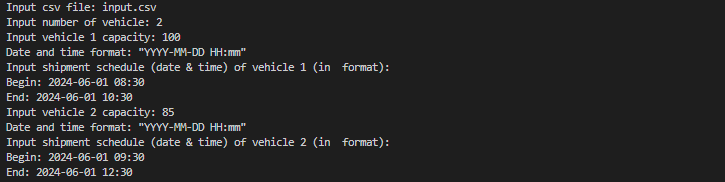
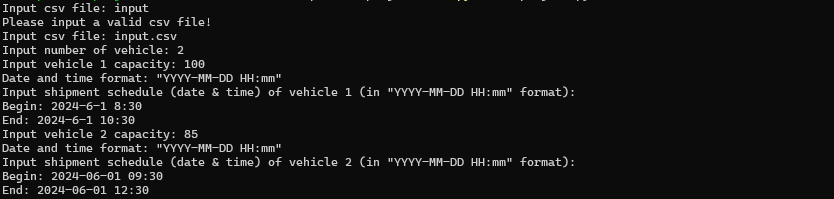
update readme.md, project.py, and add route_map

Changed region(s): [[0.0, 0.0, 0.6979, 0.989]]

diff --git a/route_map.html b/route_map.html
@@ -1,0 +1,208 @@
+<!DOCTYPE html>
+<html>
+<head>
+    
+    <meta http-equiv="content-type" content="text/html; charset=UTF-8" />
+    
+        <script>
+            L_NO_TOUCH = false;
+            L_DISABLE_3D = false;
+        </script>
+    
+    <style>html, body {width: 100%;height: 100%;margin: 0;padding: 0;}</style>
+    <style>#map {position:absolute;top:0;bottom:0;right:0;left:0;}</style>
+    <script src="https://cdn.jsdelivr.net/npm/leaflet@1.9.3/dist/leaflet.js"></script>
+    <script src="https://code.jquery.com/jquery-3.7.1.min.js"></script>
+    <script src="https://cdn.jsdelivr.net/npm/bootstrap@5.2.2/dist/js/bootstrap.bundle.min.js"></script>
+    <script src="https://cdnjs.cloudflare.com/ajax/libs/Leaflet.awesome-markers/2.0.2/leaflet.awesome-markers.js"></script>
+    <link rel="stylesheet" href="https://cdn.jsdelivr.net/npm/leaflet@1.9.3/dist/leaflet.css"/>
+    <link rel="stylesheet" href="https://cdn.jsdelivr.net/npm/bootstrap@5.2.2/dist/css/bootstrap.min.css"/>
+    <link rel="stylesheet" href="https://netdna.bootstrapcdn.com/bootstrap/3.0.0/css/bootstrap.min.css"/>
+    <link rel="stylesheet" href="https://cdn.jsdelivr.net/npm/@fortawesome/fontawesome-free@6.2.0/css/all.min.css"/>
+    <link rel="stylesheet" href="https://cdnjs.cloudflare.com/ajax/libs/Leaflet.awesome-markers/2.0.2/leaflet.awesome-markers.css"/>
+    <link rel="stylesheet" href="https://cdn.jsdelivr.net/gh/python-visualization/folium/folium/templates/leaflet.awesome.rotate.min.css"/>
+    
+            <meta name="viewport" content="width=device-width,
+                initial-scale=1.0, maximum-scale=1.0, user-scalable=no" />
+            <style>
+                #map_fca88e382974da6c19a247c7f1bebd39 {
+                    position: relative;
+                    width: 100.0%;
+                    height: 100.0%;
+                    left: 0.0%;
+                    top: 0.0%;
+                }
+                .leaflet-container { font-size: 1rem; }
+            </style>
+        
+</head>
+<body>
+    
+    
+            <div class="folium-map" id="map_fca88e382974da6c19a247c7f1bebd39" ></div>
+        
+</body>
+<script>
+    
+    
+            var map_fca88e382974da6c19a247c7f1bebd39 = L.map(
+                "map_fca88e382974da6c19a247c7f1bebd39",
+                {
+                    center: [0.5705953948161725, 123.05911896076756],
+                    crs: L.CRS.EPSG3857,
+                    zoom: 14,
+                    zoomControl: true,
+                    preferCanvas: false,
+                }
+            );
+
+            
+
+        
+    
+            var tile_layer_7d62fab1407437efd649049da0ea6a50 = L.tileLayer(
+                "https://tile.openstreetmap.org/{z}/{x}/{y}.png",
+                {"attribution": "\u0026copy; \u003ca href=\"https://www.openstreetmap.org/copyright\"\u003eOpenStreetMap\u003c/a\u003e contributors", "detectRetina": false, "maxNativeZoom": 19, "maxZoom": 19, "minZoom": 0, "noWrap": false, "opacity": 1, "subdomains": "abc", "tms": false}
+            );
+        
+    
+            tile_layer_7d62fab1407437efd649049da0ea6a50.addTo(map_fca88e382974da6c19a247c7f1bebd39);
+        
+    
+            var marker_14a4a0c672f0a43ab0fb64f08920b2cf = L.marker(
+                [0.5705953948161725, 123.05911896076756],
+                {}
+            ).addTo(map_fca88e382974da6c19a247c7f1bebd39);
+        
+    
+            var icon_9d92a796c4aba5bbac2b297c261f3be2 = L.AwesomeMarkers.icon(
+                {"extraClasses": "fa-rotate-0", "icon": "info-sign", "iconColor": "white", "markerColor": "red", "prefix": "glyphicon"}
+            );
+            marker_14a4a0c672f0a43ab0fb64f08920b2cf.setIcon(icon_9d92a796c4aba5bbac2b297c261f3be2);
+        
+    
+            marker_14a4a0c672f0a43ab0fb64f08920b2cf.bindTooltip(
+                `<div>
+                     start_point
+                 </div>`,
+                {"sticky": true}
+            );
+        
+    
+            var marker_2a56a130265e397de96f5e3626672c3c = L.marker(
+                [0.5461229144422185, 123.07928098393106],
+                {}
+            ).addTo(map_fca88e382974da6c19a247c7f1bebd39);
+        
+    
+            var icon_099619fc3c42db8cd354c52cd9b0feb8 = L.AwesomeMarkers.icon(
+                {"extraClasses": "fa-rotate-0", "icon": "info-sign", "iconColor": "white", "markerColor": "purple", "prefix": "glyphicon"}
+            );
+            marker_2a56a130265e397de96f5e3626672c3c.setIcon(icon_099619fc3c42db8cd354c52cd9b0feb8);
+        
+    
+            marker_2a56a130265e397de96f5e3626672c3c.bindTooltip(
+                `<div>
+                     end_point
+                 </div>`,
+                {"sticky": true}
+            );
+        
+    
+            var marker_ff8aae4be7693072d36586613ccc4476 = L.marker(
+                [0.5631471392390268, 123.05288470178134],
+                {}
+            ).addTo(map_fca88e382974da6c19a247c7f1bebd39);
+        
+    
+            marker_ff8aae4be7693072d36586613ccc4476.bindTooltip(
+                `<div>
+                     point01
+                 </div>`,
+                {"sticky": true}
+            );
+        
+    
+            var marker_b3ce35c527e4ded492cd7d2e8d0713e8 = L.marker(
+                [0.5593274803137437, 123.06239670199969],
+                {}
+            ).addTo(map_fca88e382974da6c19a247c7f1bebd39);
+        
+    
+            marker_b3ce35c527e4ded492cd7d2e8d0713e8.bindTooltip(
+                `<div>
+                     point02
+                 </div>`,
+                {"sticky": true}
+            );
+        
+    
+            var marker_f4825dda0e5605458cfdb56cff02c0f2 = L.marker(
+                [0.5421563811124765, 123.08181070778429],
+                {}
+            ).addTo(map_fca88e382974da6c19a247c7f1bebd39);
+        
+    
+            marker_f4825dda0e5605458cfdb56cff02c0f2.bindTooltip(
+                `<div>
+                     point03
+                 </div>`,
+                {"sticky": true}
+            );
+        
+    
+            var marker_6268e4311bdeebd48adcf6afefacaf61 = L.marker(
+                [0.5728066127800958, 123.0487623157014],
+                {}
+            ).addTo(map_fca88e382974da6c19a247c7f1bebd39);
+        
+    
+            marker_6268e4311bdeebd48adcf6afefacaf61.bindTooltip(
+                `<div>
+                     point04
+                 </div>`,
+                {"sticky": true}
+            );
+        
+    
+            var marker_399c0f19fdbd1b89f8b4c5f725b69cce = L.marker(
+                [0.57706528365983, 123.05837316586506],
+                {}
+            ).addTo(map_fca88e382974da6c19a247c7f1bebd39);
+        
+    
+            marker_399c0f19fdbd1b89f8b4c5f725b69cce.bindTooltip(
+                `<div>
+                     point05
+                 </div>`,
+                {"sticky": true}
+            );
+        
+    
+            var marker_917047c79d6d7e744560c65ab1136969 = L.marker(
+                [0.5336841606021262, 123.05336752598214],
+                {}
+            ).addTo(map_fca88e382974da6c19a247c7f1bebd39);
+        
+    
+            marker_917047c79d6d7e744560c65ab1136969.bindTooltip(
+                `<div>
+                     point06
+                 </div>`,
+                {"sticky": true}
+            );
+        
+    
+            var poly_line_37fbeb9c195b68b3531f95c494f1610d = L.polyline(
+                [[0.57061, 123.05908], [0.57038, 123.05902], [0.57051, 123.05864], [0.57072, 123.05816], [0.57116, 123.05725], [0.5712, 123.05717], [0.57122, 123.05714], [0.5715, 123.05659], [0.57155, 123.05651], [0.57174, 123.05609], [0.57181, 123.05595], [0.57185, 123.05588], [0.57207, 123.05541], [0.5721, 123.05536], [0.57224, 123.05508], [0.57331, 123.05299], [0.57358, 123.0525], [0.57352, 123.05248], [0.57248, 123.05218], [0.57216, 123.0521], [0.5717, 123.05196], [0.57202, 123.05106], [0.57209, 123.05084], [0.57223, 123.05048], [0.57241, 123.04995], [0.57259, 123.04943], [0.57265, 123.04924], [0.57277, 123.04893], [0.5728, 123.04883], [0.57282, 123.04877], [0.57293, 123.04845], [0.57321, 123.0476], [0.57337, 123.04719], [0.57347, 123.04684], [0.57276, 123.04691], [0.5723, 123.04696], [0.57195, 123.047], [0.5711, 123.04707], [0.5705, 123.04714], [0.57036, 123.04716], [0.57018, 123.04718], [0.56939, 123.04727], [0.56847, 123.04735], [0.56838, 123.04736], [0.56715, 123.04741], [0.56701, 123.04741], [0.56692, 123.04742], [0.56678, 123.04743], [0.56629, 123.04743], [0.56562, 123.04745], [0.56528, 123.04746], [0.56488, 123.04747], [0.56475, 123.04748], [0.5641, 123.04753], [0.56358, 123.04758], [0.56344, 123.04788], [0.56312, 123.04861], [0.56271, 123.04977], [0.56266, 123.05003], [0.56261, 123.05047], [0.56254, 123.05099], [0.56252, 123.05121], [0.56242, 123.05187], [0.56239, 123.05211], [0.56233, 123.05254], [0.56314, 123.05289], [0.56233, 123.05254], [0.56194, 123.05239], [0.56121, 123.05214], [0.5612, 123.05217], [0.56116, 123.05225], [0.56115, 123.05227], [0.56091, 123.05322], [0.56089, 123.05328], [0.56067, 123.05413], [0.56052, 123.05457], [0.56043, 123.05491], [0.56037, 123.05514], [0.56033, 123.05527], [0.56024, 123.05556], [0.5601, 123.05606], [0.56006, 123.0562], [0.55988, 123.0569], [0.55975, 123.05746], [0.55971, 123.05761], [0.55968, 123.05773], [0.55961, 123.05793], [0.55957, 123.05806], [0.55955, 123.05812], [0.55929, 123.05889], [0.55999, 123.05906], [0.55985, 123.05979], [0.55979, 123.06007], [0.55968, 123.06069], [0.55969, 123.06085], [0.55973, 123.06101], [0.55973, 123.06112], [0.55971, 123.06124], [0.55956, 123.06169], [0.55933, 123.0624], [0.55931, 123.06248], [0.55916, 123.06289], [0.55885, 123.06387], [0.55875, 123.06417], [0.55861, 123.06463], [0.55855, 123.06487], [0.55843, 123.0655], [0.5584, 123.0656], [0.55741, 123.0653], [0.55734, 123.06529], [0.55625, 123.06498], [0.5555, 123.06479], [0.55485, 123.06463], [0.55371, 123.06434], [0.55364, 123.06433], [0.55264, 123.06412], [0.55245, 123.06407], [0.5524, 123.06403], [0.55239, 123.06395], [0.5525, 123.06332], [0.55251, 123.06324], [0.55213, 123.06318], [0.55111, 123.063], [0.55074, 123.06294], [0.55052, 123.0629], [0.5501, 123.06283], [0.5496, 123.06274], [0.54952, 123.06273], [0.54929, 123.06269], [0.54713, 123.06234], [0.54658, 123.06223], [0.54643, 123.0622], [0.54594, 123.06212], [0.54539, 123.06201], [0.54533, 123.062], [0.54468, 123.0619], [0.54394, 123.06174], [0.54321, 123.06161], [0.54283, 123.06154], [0.54227, 123.06144], [0.54225, 123.06148], [0.54222, 123.0615], [0.54224, 123.06158], [0.54224, 123.06179], [0.54221, 123.06212], [0.54216, 123.0624], [0.54208, 123.06305], [0.54206, 123.06333], [0.54198, 123.06411], [0.54197, 123.06431], [0.54191, 123.06516], [0.54185, 123.06574], [0.54182, 123.0665], [0.54178, 123.06705], [0.54175, 123.06745], [0.54173, 123.0677], [0.54173, 123.06791], [0.54174, 123.068], [0.54187, 123.06826], [0.54207, 123.06863], [0.54234, 123.06911], [0.54237, 123.06923], [0.54236, 123.06927], [0.54228, 123.06939], [0.54208, 123.06962], [0.54171, 123.07005], [0.54123, 123.07065], [0.54098, 123.07094], [0.54074, 123.07123], [0.5407, 123.07128], [0.54061, 123.07141], [0.54051, 123.07155], [0.54086, 123.07189], [0.5409, 123.07196], [0.54089, 123.07201], [0.54064, 123.0725], [0.54046, 123.07278], [0.53993, 123.07327], [0.53984, 123.07335], [0.53953, 123.07362], [0.53975, 123.07407], [0.53982, 123.07423], [0.54026, 123.07513], [0.54045, 123.07563], [0.54051, 123.07582], [0.54096, 123.07605], [0.54107, 123.07612], [0.54157, 123.07644], [0.54307, 123.07746], [0.5434, 123.07767], [0.54373, 123.07788], [0.54483, 123.07864], [0.54506, 123.07878], [0.54567, 123.07917], [0.54603, 123.07939], [0.54604, 123.0794]],
+                {"bubblingMouseEvents": true, "color": "red", "dashArray": null, "dashOffset": null, "fill": false, "fillColor": "red", "fillOpacity": 0.2, "fillRule": "evenodd", "lineCap": "round", "lineJoin": "round", "noClip": false, "opacity": 1.0, "smoothFactor": 1.0, "stroke": true, "weight": 3}
+            ).addTo(map_fca88e382974da6c19a247c7f1bebd39);
+        
+    
+            var poly_line_785f555fcfa416b01e76b0a421678828 = L.polyline(
+                [[0.57061, 123.05908], [0.57038, 123.05902], [0.57051, 123.05864], [0.57072, 123.05816], [0.57116, 123.05725], [0.5712, 123.05717], [0.57122, 123.05714], [0.57168, 123.05736], [0.57223, 123.05759], [0.5725, 123.05772], [0.57261, 123.05776], [0.57303, 123.05796], [0.57322, 123.05804], [0.57339, 123.05813], [0.57395, 123.05839], [0.57442, 123.05862], [0.57477, 123.05884], [0.57511, 123.05904], [0.57519, 123.05909], [0.57573, 123.05938], [0.57582, 123.05944], [0.57628, 123.05971], [0.57663, 123.05904], [0.57679, 123.0588], [0.57701, 123.05851], [0.5771, 123.0584], [0.57701, 123.05851], [0.57679, 123.0588], [0.57663, 123.05904], [0.57628, 123.05971], [0.57582, 123.05944], [0.57573, 123.05938], [0.57519, 123.05909], [0.57511, 123.05904], [0.57477, 123.05884], [0.57442, 123.05862], [0.57395, 123.05839], [0.57339, 123.05813], [0.57322, 123.05804], [0.57303, 123.05796], [0.57261, 123.05776], [0.5725, 123.05772], [0.57223, 123.05759], [0.57168, 123.05736], [0.57122, 123.05714], [0.5712, 123.05717], [0.57116, 123.05725], [0.57072, 123.05816], [0.57051, 123.05864], [0.57038, 123.05902], [0.57022, 123.0596], [0.57009, 123.06003], [0.56994, 123.06057], [0.56988, 123.06076], [0.56981, 123.06104], [0.56964, 123.06166], [0.56955, 123.06196], [0.56948, 123.06224], [0.56939, 123.06259], [0.56915, 123.06334], [0.56898, 123.06392], [0.5689, 123.06416], [0.56885, 123.06435], [0.56872, 123.06478], [0.56841, 123.0656], [0.56818, 123.06616], [0.56798, 123.06663], [0.56777, 123.06713], [0.56758, 123.06757], [0.56718, 123.0685], [0.56716, 123.0686], [0.56711, 123.06873], [0.56706, 123.06878], [0.56701, 123.06881], [0.56689, 123.06884], [0.56671, 123.06884], [0.56645, 123.06882], [0.56607, 123.06876], [0.56557, 123.06862], [0.56508, 123.06844], [0.56456, 123.06822], [0.56433, 123.06812], [0.5639, 123.06793], [0.56372, 123.06784], [0.56355, 123.06771], [0.56313, 123.06725], [0.56293, 123.06704], [0.56274, 123.06691], [0.56257, 123.06684], [0.56234, 123.06678], [0.56183, 123.06662], [0.56, 123.06606], [0.55879, 123.0657], [0.5584, 123.0656], [0.55741, 123.0653], [0.55734, 123.06529], [0.55625, 123.06498], [0.5555, 123.06479], [0.55485, 123.06463], [0.55371, 123.06434], [0.55364, 123.06433], [0.55264, 123.06412], [0.55245, 123.06407], [0.5524, 123.06403], [0.55239, 123.06395], [0.5525, 123.06332], [0.55251, 123.06324], [0.55213, 123.06318], [0.55111, 123.063], [0.55074, 123.06294], [0.55052, 123.0629], [0.5501, 123.06283], [0.5496, 123.06274], [0.54952, 123.06273], [0.54929, 123.06269], [0.54713, 123.06234], [0.54658, 123.06223], [0.54643, 123.0622], [0.54594, 123.06212], [0.54539, 123.06201], [0.54533, 123.062], [0.54468, 123.0619], [0.54394, 123.06174], [0.54321, 123.06161], [0.54283, 123.06154], [0.54227, 123.06144], [0.54225, 123.06148], [0.54222, 123.0615], [0.54224, 123.06158], [0.54224, 123.06179], [0.54221, 123.06212], [0.54216, 123.0624], [0.54208, 123.06305], [0.54206, 123.06333], [0.54198, 123.06411], [0.54197, 123.06431], [0.54191, 123.06516], [0.54185, 123.06574], [0.54182, 123.0665], [0.54178, 123.06705], [0.54175, 123.06745], [0.54173, 123.0677], [0.54173, 123.06791], [0.54174, 123.068], [0.54187, 123.06826], [0.54207, 123.06863], [0.54234, 123.06911], [0.54237, 123.06923], [0.54236, 123.06927], [0.54228, 123.06939], [0.54208, 123.06962], [0.54171, 123.07005], [0.54123, 123.07065], [0.54098, 123.07094], [0.54074, 123.07123], [0.5407, 123.07128], [0.54061, 123.07141], [0.54051, 123.07155], [0.54086, 123.07189], [0.5409, 123.07196], [0.54089, 123.07201], [0.54064, 123.0725], [0.54046, 123.07278], [0.53993, 123.07327], [0.53984, 123.07335], [0.53953, 123.07362], [0.53975, 123.07407], [0.53982, 123.07423], [0.54026, 123.07513], [0.54045, 123.07563], [0.54051, 123.07582], [0.54093, 123.0773], [0.54104, 123.07776], [0.54111, 123.078], [0.54114, 123.07807], [0.54125, 123.07848], [0.54139, 123.07899], [0.54147, 123.07923], [0.54153, 123.07942], [0.5416, 123.07967], [0.54162, 123.07978], [0.54172, 123.08008], [0.54176, 123.0802], [0.54187, 123.0806], [0.54197, 123.08098], [0.54198, 123.08103], [0.54213, 123.08156], [0.54218, 123.08181], [0.54213, 123.08156], [0.54198, 123.08103], [0.54197, 123.08098], [0.54187, 123.0806], [0.54176, 123.0802], [0.54172, 123.08008], [0.54162, 123.07978], [0.5416, 123.07967], [0.54153, 123.07942], [0.54147, 123.07923], [0.54139, 123.07899], [0.54125, 123.07848], [0.54114, 123.07807], [0.54111, 123.078], [0.54104, 123.07776], [0.54093, 123.0773], [0.54051, 123.07582], [0.54096, 123.07605], [0.54107, 123.07612], [0.54157, 123.07644], [0.54307, 123.07746], [0.5434, 123.07767], [0.54373, 123.07788], [0.54483, 123.07864], [0.54506, 123.07878], [0.54567, 123.07917], [0.54603, 123.07939], [0.54604, 123.0794]],
+                {"bubblingMouseEvents": true, "color": "blue", "dashArray": null, "dashOffset": null, "fill": false, "fillColor": "blue", "fillOpacity": 0.2, "fillRule": "evenodd", "lineCap": "round", "lineJoin": "round", "noClip": false, "opacity": 1.0, "smoothFactor": 1.0, "stroke": true, "weight": 3}
+            ).addTo(map_fca88e382974da6c19a247c7f1bebd39);
+        
+</script>
+</html>

diff --git a/project.py b/project.py
@@ -28,7 +28,7 @@ class Schedule:
                 print('Date and time format: "YYYY-MM-DD HH:mm"')
                 if vehicles > 1:
                     print(
-                        f"Input shipment schedule (date & time) of vehicle {idx+1} (in  format):"
+                        f'Input shipment schedule (date & time) of vehicle {idx+1} (in "YYYY-MM-DD HH:mm" format):'
                     )
                 else:
                     print(
